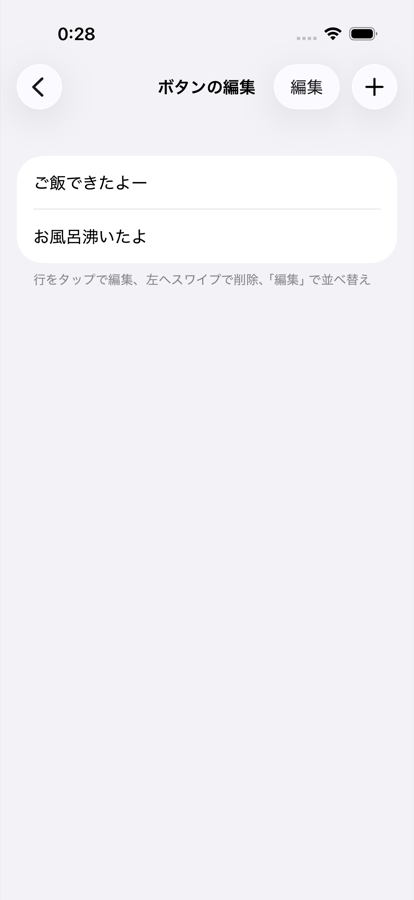
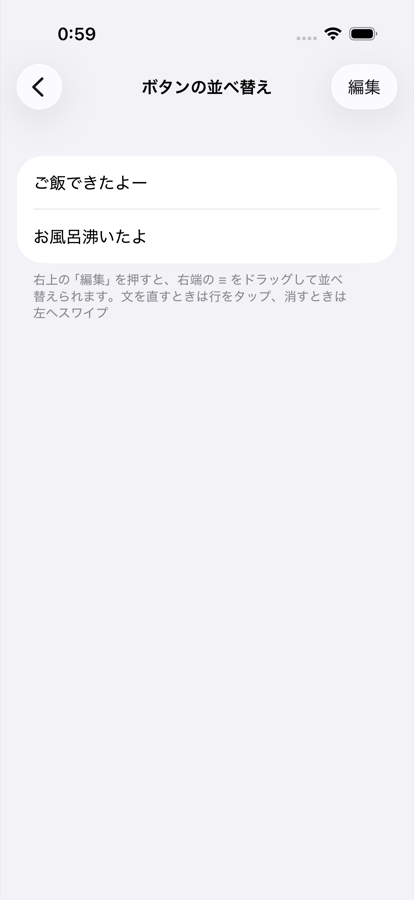
設定画面を家族向けに簡素化: 送信先・トークン・注記を消し、つながる確認を平易な文言に、ボタンは並べ替え主体に

diff --git a/ios/FamEcho/Views/SettingsView.swift b/ios/FamEcho/Views/SettingsView.swift
@@ -7,6 +7,13 @@ struct SettingsView: View {
 
     private let config = AppConfig.shared
 
+    private var versionText: String {
+        let info = Bundle.main
+        let version = info.object(forInfoDictionaryKey: "CFBundleShortVersionString") as? String ?? "-"
+        let build = info.object(forInfoDictionaryKey: "CFBundleVersion") as? String
+        return build.map { "\(version)（\($0)）" } ?? version
+    }
+
     var body: some View {
         Form {
             Section("名前") {
@@ -25,20 +32,18 @@ struct SettingsView: View {
             }
 
             Section("ボタン") {
-                NavigationLink("ボタンの編集・並べ替え") {
+                NavigationLink("ボタンの並べ替え") {
                     PresetListView()
                 }
                 .accessibilityIdentifier("edit-presets")
             }
 
             Section {
-                LabeledContent("送信先", value: config.baseURL?.host ?? "未設定")
-                LabeledContent("トークン", value: config.token.isEmpty ? "未設定" : "設定済み")
                 Button {
                     checkHealth()
                 } label: {
                     HStack {
-                        Text("つながるか確かめる")
+                        Text("Echo につながるか確かめる")
                         if checking { Spacer(); ProgressView() }
                     }
                 }
@@ -48,17 +53,15 @@ struct SettingsView: View {
                         .font(.footnote)
                         .accessibilityIdentifier("health-result")
                 }
-            } header: {
-                Text("送信先")
-            } footer: {
-                Text("送信先とトークンはビルド時に埋め込まれます（ios/Secrets.xcconfig）")
             }
 
             Section {
-                Text("ボタンと履歴はこの iPhone の中だけに保存され、家族とは共有されません。")
+                Text("バージョン \(versionText)")
                     .font(.footnote)
                     .foregroundStyle(.secondary)
-                LabeledContent("バージョン", value: Bundle.main.object(forInfoDictionaryKey: "CFBundleShortVersionString") as? String ?? "-")
+                    .frame(maxWidth: .infinity)
+                    .listRowBackground(Color.clear)
+                    .accessibilityIdentifier("app-version")
             }
         }
         .navigationTitle("設定")
@@ -72,12 +75,12 @@ struct SettingsView: View {
             do {
                 let health = try await SpeakClient().health()
                 if let ha = health.ha, !ha.reachable {
-                    healthResult = "窓口には届きました。Home Assistant には届いていません"
+                    healthResult = "家の Mac には届きましたが、Echo の仕組み（Home Assistant）に届いていません"
                 } else {
-                    healthResult = "窓口にも Home Assistant にも届きました"
+                    healthResult = "つながりました"
                 }
             } catch {
-                healthResult = "届きません: \(error.localizedDescription)"
+                healthResult = "つながりません。家の Wi-Fi か通信を確かめてください"
             }
         }
     }

diff --git a/ios/FamEcho/Views/PresetListView.swift b/ios/FamEcho/Views/PresetListView.swift
@@ -1,13 +1,12 @@
 import SwiftData
 import SwiftUI
 
-/// ボタンの編集・削除・並べ替え・追加。初期のボタンも同じ扱い。
+/// ボタンの並べ替えが主。タップで編集、左スワイプで削除もできる（追加はメイン画面）。
 struct PresetListView: View {
     @Environment(\.modelContext) private var context
     @Query(sort: \Preset.order) private var presets: [Preset]
 
     @State private var editing: Preset?
-    @State private var adding = false
 
     var body: some View {
         List {
@@ -26,33 +25,18 @@ struct PresetListView: View {
                 .onDelete(perform: delete)
                 .onMove(perform: move)
             } footer: {
-                Text("行をタップで編集、左へスワイプで削除、「編集」で並べ替え")
+                Text("右上の「編集」を押すと、右端の ≡ をドラッグして並べ替えられます。文を直すときは行をタップ、消すときは左へスワイプ")
             }
         }
-        .navigationTitle("ボタンの編集")
+        .navigationTitle("ボタンの並べ替え")
         .toolbar {
             ToolbarItem(placement: .topBarTrailing) {
                 EditButton()
-            }
-            ToolbarItem(placement: .topBarTrailing) {
-                Button {
-                    adding = true
-                } label: {
-                    Image(systemName: "plus")
-                }
-                .accessibilityLabel("ボタンを追加")
-                .accessibilityIdentifier("add-preset")
             }
         }
         .sheet(item: $editing) { preset in
             PresetEditorView(title: "ボタンを編集", text: preset.text) { text in
                 preset.text = text
-                try? context.save()
-            }
-        }
-        .sheet(isPresented: $adding) {
-            PresetEditorView(title: "ボタンを追加", text: "") { text in
-                context.insert(Preset(text: text, order: Preset.nextOrder(in: context)))
                 try? context.save()
             }
         }

diff --git a/ios/FamEchoUITests/FamEchoUITests.swift b/ios/FamEchoUITests/FamEchoUITests.swift
@@ -241,6 +241,13 @@ final class FamEchoUITests: XCTestCase {
                       || app.staticTexts["家族C"].exists, "設定に焼き込んだ名前が出ない: \(fixed.label)")
         XCTAssertFalse(app.buttons["change-name"].exists, "焼き込みなのに名前の変更手段が出ている")
         XCTAssertFalse(app.descendants(matching: .any)["custom-name-field"].exists)
+        // 家族向けに余計な情報は出さない
+        XCTAssertTrue(app.buttons["Echo につながるか確かめる"].exists)
+        XCTAssertTrue(app.buttons["edit-presets"].exists)
+        XCTAssertTrue(app.staticTexts.matching(NSPredicate(format: "label BEGINSWITH %@", "バージョン")).firstMatch.exists)
+        for hidden in ["送信先", "トークン", "ios/Secrets.xcconfig", "この iPhone の中だけ"] {
+            XCTAssertFalse(app.staticTexts.matching(NSPredicate(format: "label CONTAINS %@", hidden)).firstMatch.exists, "\(hidden) が出ている")
+        }
         shot("09-fixed-name-settings")
     }
 }
